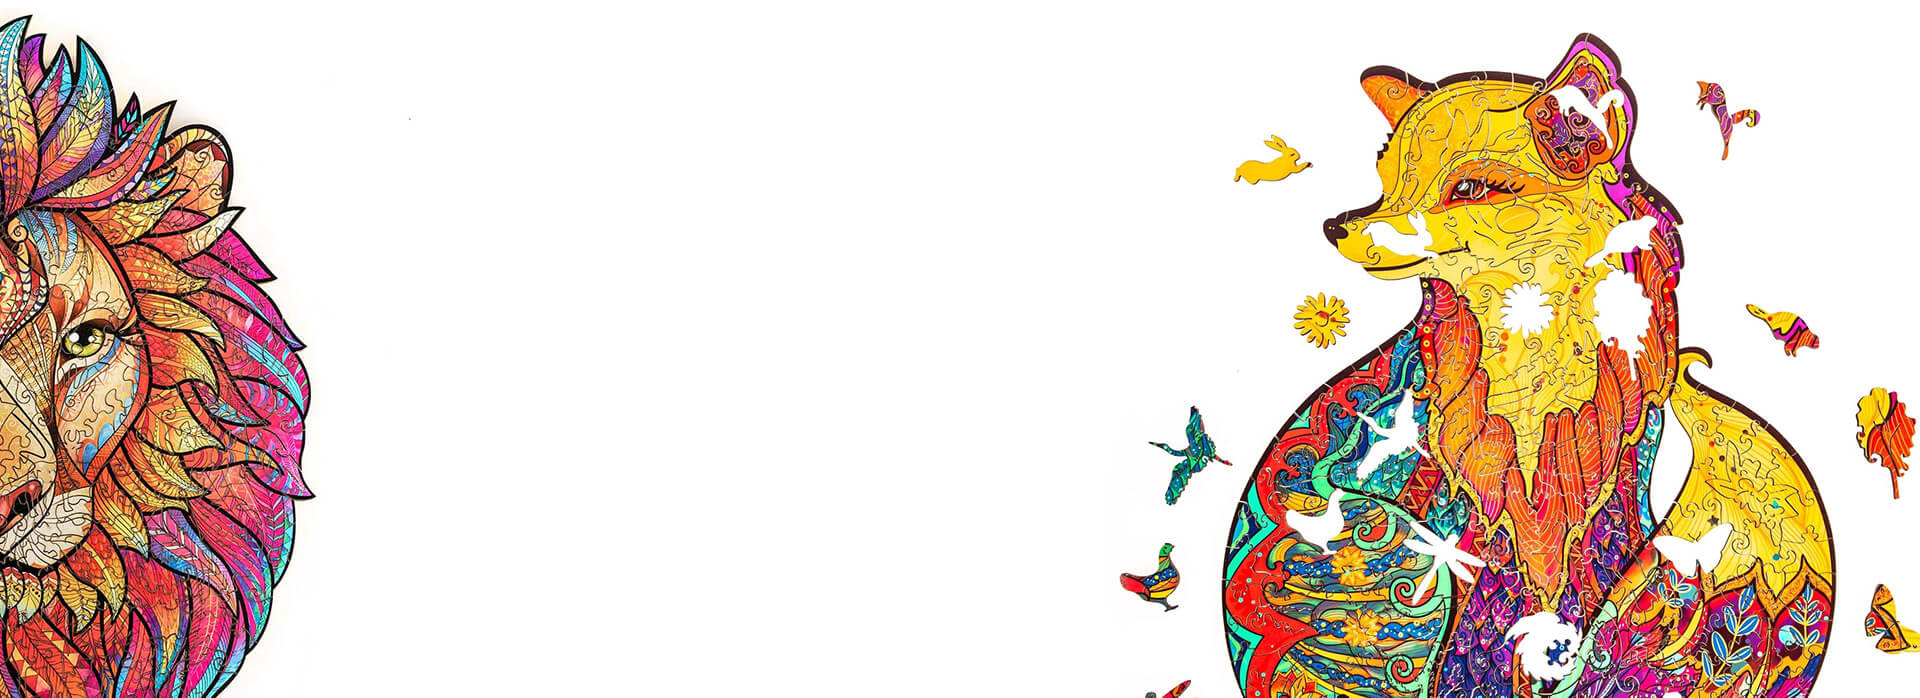
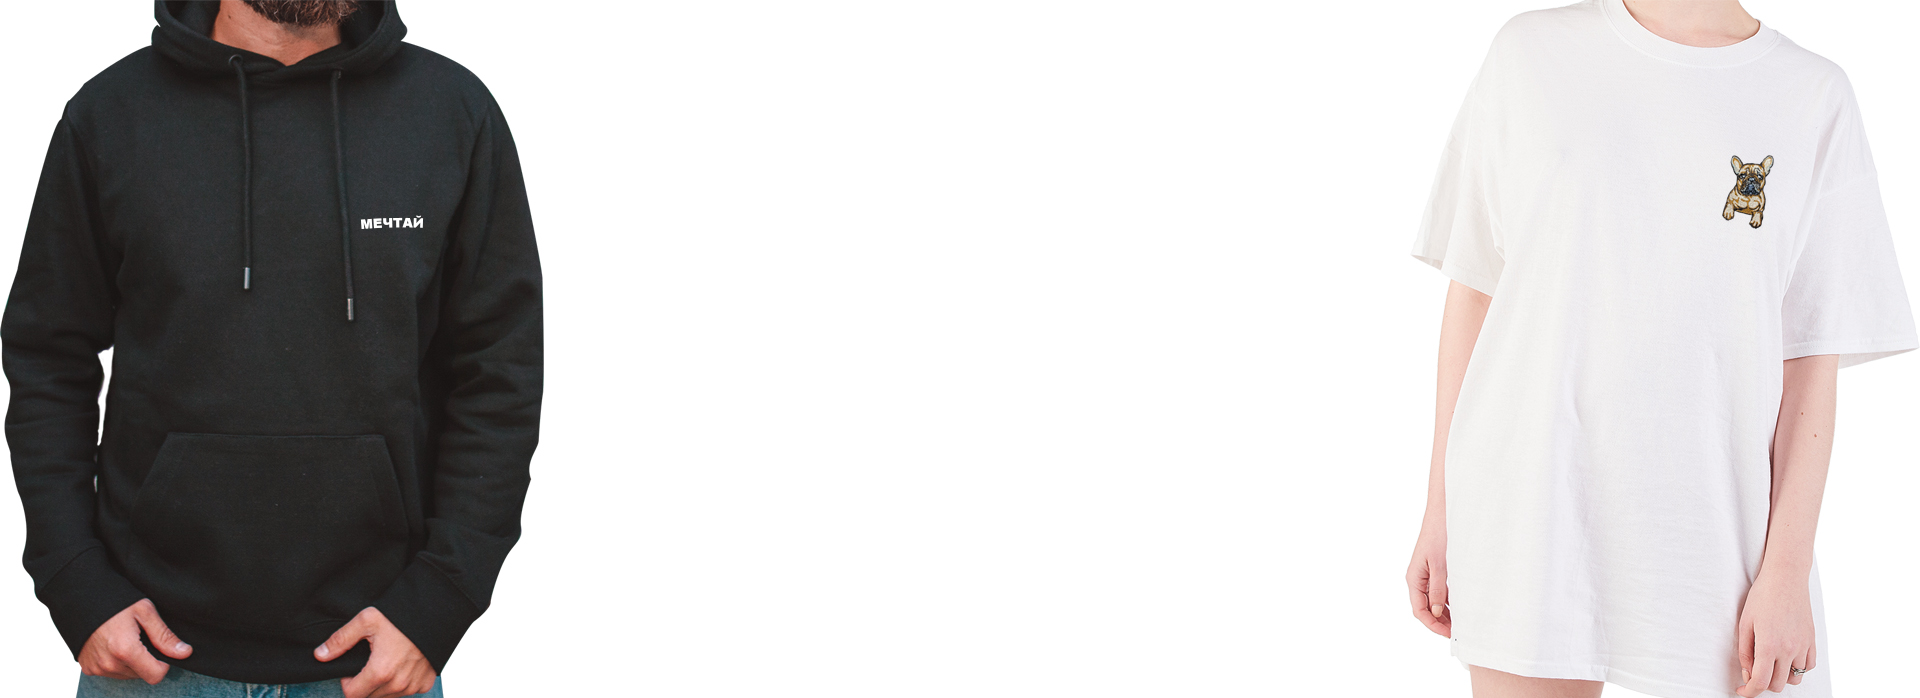
front page fix

diff --git a/public/css/style.css b/public/css/style.css
@@ -8284,7 +8284,7 @@ input:checked+ .radio-size__label::after {
     .first {
         padding-top: 85px;
         padding-bottom: 100px;
-        background-image: url("../../../../Downloads/unidragon/img/first-bg.jpg");
+        background-image: url("/img/first-bg.jpg");
         background-position: 60% 50%;
         -webkit-background-size: cover;
            -moz-background-size: cover;

diff --git a/resources/views/components/product-list.blade.php b/resources/views/components/product-list.blade.php
@@ -12,14 +12,14 @@
             от 1490 руб. до 3490 руб.
         </p>
         <div class="c-product__bottom">
-            <a class="button c-product__button-size js-popup open-cart_2" href="popup--product.html"  role="button">
+            <a class="button c-product__button-size js-popup open-cart" href="popup--product.html"  role="button">
                 <svg class="svg-icon svg-icon--size button__svg-icon">
                     <use xlink:href="#size"></use>
                 </svg>
                 <span class="button__caption">Выбрать изделие</span>
             </a>
             <div class="c-product__extra">
-                <a class="button c-product__button-view js-popup button--black open-cart_2" href="popup--product.html"   role="button">
+                <a class="button c-product__button-view js-popup button--black open-cart href="popup--product.html"   role="button">
                     <svg class="svg-icon svg-icon--view button__svg-icon">
                         <use xlink:href="#view"></use>
                     </svg>
